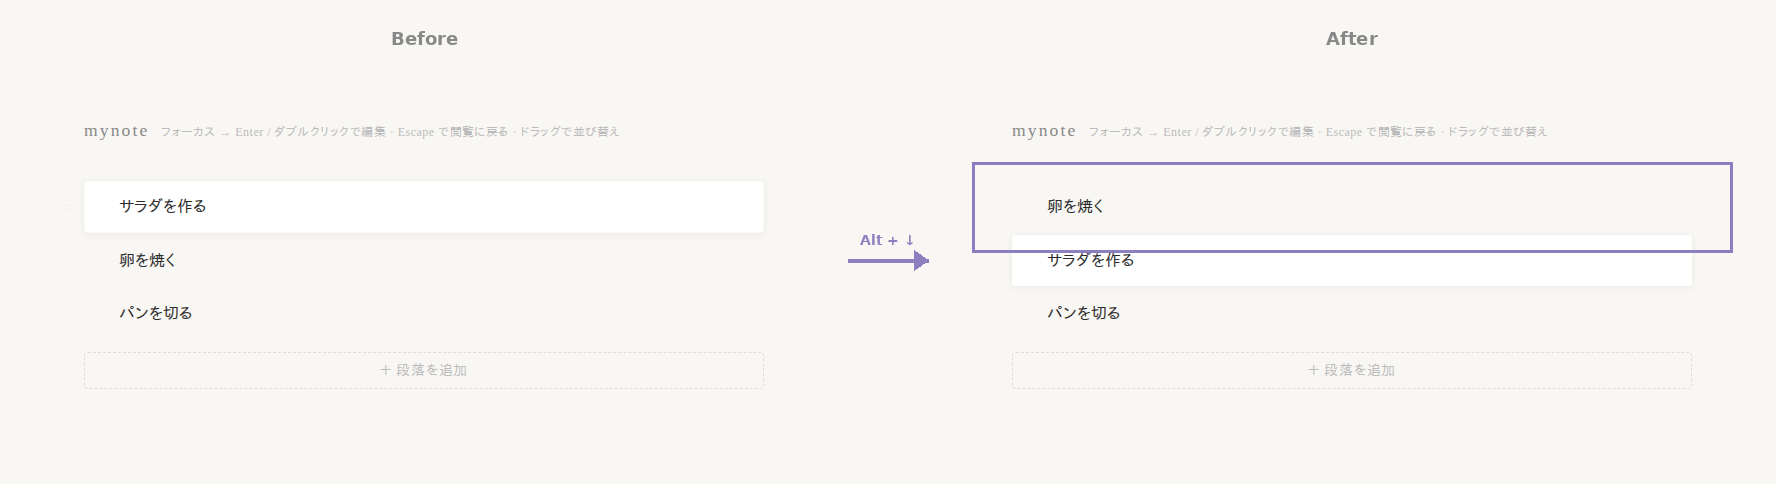
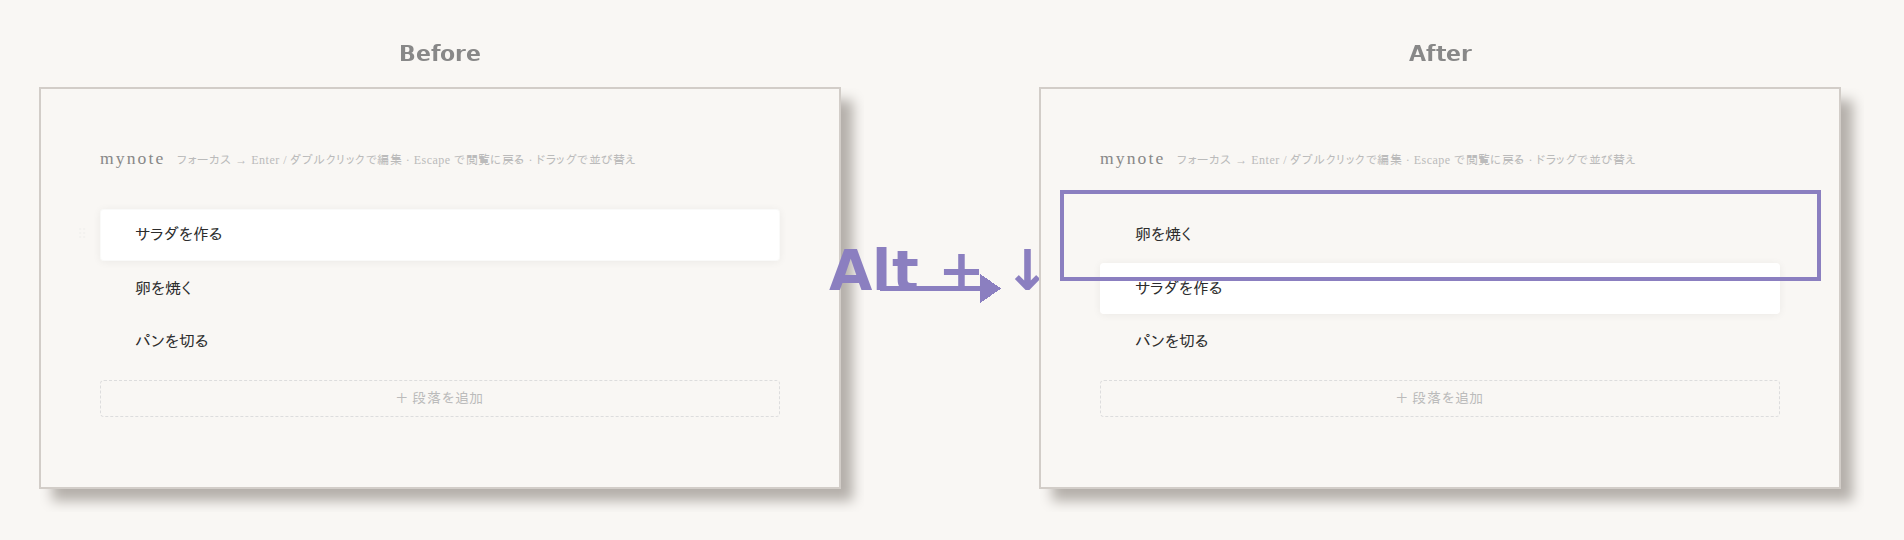
Improve demo image: add shadow/border, enlarge key label

diff --git a/tools/make_demo_image.py b/tools/make_demo_image.py
@@ -1,0 +1,103 @@
+from PIL import Image, ImageDraw, ImageFont, ImageFilter
+import os
+
+BASE = os.path.dirname(os.path.abspath(__file__))
+DOCS = os.path.join(BASE, '..', 'docs')
+
+before = Image.open(os.path.join(DOCS, 'demo_before.png'))
+after  = Image.open(os.path.join(DOCS, 'demo_after.png'))
+
+W, H = before.size  # 800x400
+PAD     = 40
+SHADOW  = 12          # 影の大きさ
+ARROW_W = 120
+LABEL_H = 48
+TOTAL_W = (W + SHADOW) * 2 + ARROW_W + PAD * 4
+TOTAL_H = H + SHADOW + LABEL_H + PAD * 2
+
+BG     = (249, 247, 244)
+PURPLE = (139, 127, 192)
+GRAY   = (136, 136, 136)
+WHITE  = (255, 255, 255)
+SHADOW_COLOR = (180, 175, 170)
+
+canvas = Image.new('RGB', (TOTAL_W, TOTAL_H), BG)
+draw = ImageDraw.Draw(canvas)
+
+def get_font(size, bold=True):
+    candidates = [
+        '/usr/share/fonts/truetype/dejavu/DejaVuSans-Bold.ttf',
+        '/usr/share/fonts/truetype/liberation/LiberationSans-Bold.ttf',
+        '/usr/share/fonts/truetype/freefont/FreeSansBold.ttf',
+    ]
+    for path in candidates:
+        if os.path.exists(path):
+            return ImageFont.truetype(path, size)
+    return ImageFont.load_default()
+
+def label(text, cx, y, color=GRAY, size=18):
+    font = get_font(size)
+    bbox = draw.textbbox((0, 0), text, font=font)
+    tw = bbox[2] - bbox[0]
+    draw.text((cx - tw // 2, y), text, fill=color, font=font)
+
+def paste_with_shadow(img, x, y):
+    """影 → 白枠 → 画像の順に貼り付け"""
+    # 影（右下にオフセット）
+    shadow_layer = Image.new('RGB', canvas.size, BG)
+    shadow_draw = ImageDraw.Draw(shadow_layer)
+    shadow_draw.rectangle(
+        [x + SHADOW, y + SHADOW, x + W + SHADOW, y + H + SHADOW],
+        fill=SHADOW_COLOR
+    )
+    # ガウスぼかしで柔らかい影に
+    shadow_layer = shadow_layer.filter(ImageFilter.GaussianBlur(radius=6))
+    canvas.paste(shadow_layer.crop((x, y, x + W + SHADOW * 2, y + H + SHADOW * 2)), (x, y))
+
+    # 白背景（枠の内側）
+    canvas.paste(Image.new('RGB', (W, H), WHITE), (x, y))
+    # 画像本体
+    canvas.paste(img, (x, y))
+    # 枠線
+    draw2 = ImageDraw.Draw(canvas)
+    draw2.rectangle([x - 1, y - 1, x + W, y + H], outline=(210, 205, 200), width=2)
+
+y_img = PAD + LABEL_H
+
+# --- Before ---
+x_before = PAD
+paste_with_shadow(before, x_before, y_img)
+label('Before', x_before + W // 2, PAD, color=GRAY, size=22)
+
+# --- 矢印 ---
+ax1 = x_before + W + PAD
+ax2 = ax1 + ARROW_W
+arrow_cy = y_img + H // 2
+
+draw.line([(ax1, arrow_cy), (ax2 - 20, arrow_cy)], fill=PURPLE, width=5)
+aw, ah = 20, 14
+draw.polygon([
+    (ax2, arrow_cy),
+    (ax2 - aw, arrow_cy - ah),
+    (ax2 - aw, arrow_cy + ah),
+], fill=PURPLE)
+
+# キー表示 (4倍: 14 → 56)
+label('Alt + ↓', ax1 + ARROW_W // 2, arrow_cy - 50, color=PURPLE, size=56)
+
+# --- After ---
+x_after = ax2 + PAD
+paste_with_shadow(after, x_after, y_img)
+label('After', x_after + W // 2, PAD, color=GRAY, size=22)
+
+# ハイライト枠（移動した段落）
+row_top    = y_img + 102
+row_bottom = y_img + 192
+draw.rectangle(
+    [x_after + 20, row_top, x_after + W - 20, row_bottom],
+    outline=PURPLE, width=4
+)
+
+out_path = os.path.join(DOCS, 'demo_reorder.png')
+canvas.save(out_path)
+print(f'saved: {out_path}  size={canvas.size}')
